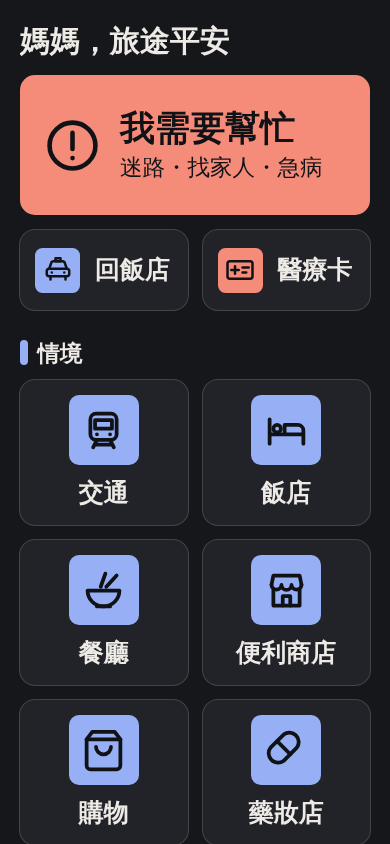
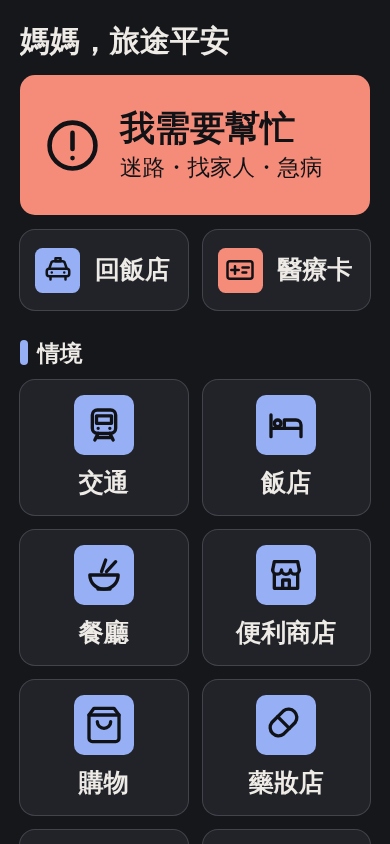
Refine visuals: grouped lists, one solid action per screen (#20)
- Phrase rows of a group share one card with hairline dividers (rowGroup)
- Phrase detail: 給對方點選答案 becomes soft green; 播放 and 慢速 share one style
- 1px rings on answer buttons; row titles semibold; lighter home pictograms
- docs/design.md: rules 8-11

Claude-Session: https://claude.ai/code/session_01FL5DYQMe9ZWzkevjtD88Bj

diff --git a/src/ui/scene.ts b/src/ui/scene.ts
@@ -44,7 +44,8 @@ function phraseActions(phrase: Phrase, line: Ready): HTMLElement {
         "button",
         {
           type: "button",
-          class: `${ACTION} col-span-2 bg-ok text-on-accent`,
+          // Soft, so 給對方看 stays the one solid action; green still means "answers".
+          class: `${ACTION} col-span-2 bg-ok-soft text-ok ring-1 ring-ok/40`,
           onclick: () => askOther(line, repliesFor(phrase.answers!)),
         },
         icon("hand"),
@@ -90,17 +91,24 @@ export function phraseRow(phrase: Phrase, line: Ready): HTMLElement {
     {
       type: "button",
       class:
-        "flex min-h-16 w-full items-center gap-3 rounded-xl bg-card px-4 py-2.5 text-left ring-1 ring-hair transition active:scale-[0.98] active:bg-ai-soft",
+        // Rows sit in a shared card (rowGroup), so they draw no box of their own; the
+        // focus ring is drawn inside, where the card's rounded corners cannot clip it.
+        "flex min-h-16 w-full items-center gap-3 px-4 py-3 text-left transition-colors active:bg-ai-soft focus-visible:[outline-offset:-3px]",
       onclick: () => openPhrase(phrase, line),
     },
     h(
       "span",
       { class: "min-w-0 flex-1" },
-      h("span", { class: "block text-xl font-bold leading-snug" }, line.zh),
+      h("span", { class: "block text-xl font-semibold leading-snug" }, line.zh),
       h("span", { lang: "ja", class: "mt-0.5 block truncate text-base text-muted" }, plain(line.jp)),
     ),
-    icon("next", "h-7 w-7 shrink-0 text-ai"),
+    icon("next", "h-6 w-6 shrink-0 text-ai"),
   );
+}
+
+/** Rows of one group in one card, split by hairlines: a list, not a stack of boxes. */
+export function rowGroup(rows: HTMLElement[]): HTMLElement {
+  return h("div", { class: "divide-y divide-hair overflow-hidden rounded-xl bg-card ring-1 ring-hair" }, rows);
 }
 
 /** What staff say: the Chinese first and largest, the Japanese to check against, then the answers. */
@@ -119,7 +127,7 @@ function heardCard(heard: Heard): HTMLElement {
           "button",
           {
             type: "button",
-            class: "min-h-14 rounded-xl bg-ok-soft px-2 py-2 text-lg font-bold leading-tight text-ok ring-2 ring-ok/40 active:scale-95",
+            class: "min-h-14 rounded-xl bg-ok-soft px-2 py-2 text-lg font-bold leading-tight text-ok ring-1 ring-ok/40 active:scale-95",
             onclick: () => showToOther([{ jp: reply.jp, zh: reply.zh }], "我的回答", true),
           },
           reply.zh,
@@ -252,7 +260,7 @@ function tabs(scene: Scene, heard: boolean): HTMLElement {
 
 /** The phrase rows, under the scene's headings when it has them. */
 function phraseList(scene: Scene, line: (phrase: Phrase) => Ready): HTMLElement[] {
-  const rows = (phrases: Phrase[]) => h("div", { class: "space-y-2" }, phrases.map((p) => phraseRow(p, line(p))));
+  const rows = (phrases: Phrase[]) => rowGroup(phrases.map((p) => phraseRow(p, line(p))));
   if (!scene.groups) return [rows(scene.phrases)];
   return scene.groups.map((group) =>
     h(

diff --git a/src/ui/home.ts b/src/ui/home.ts
@@ -6,7 +6,7 @@ import { heading } from "./layout";
 import { pickPlace } from "./scene";
 
 const TILE =
-  "flex min-h-28 flex-col items-center justify-center gap-2 rounded-xl bg-card px-2 py-3 text-center text-xl font-bold text-ink ring-1 ring-hair transition active:scale-[0.97] active:bg-ai-soft";
+  "flex min-h-24 flex-col items-center justify-center gap-2 rounded-xl bg-card px-2 py-3 text-center text-xl font-bold text-ink ring-1 ring-hair transition active:scale-[0.97] active:bg-ai-soft";
 const SHORTCUT =
   "flex min-h-16 items-center gap-3 rounded-xl bg-card px-3 py-2 text-xl font-bold leading-tight text-ink ring-1 ring-hair transition active:scale-[0.97] active:bg-ai-soft";
 
@@ -122,7 +122,7 @@ export function renderHome(root: HTMLElement): void {
                 // With an odd number of scenes the last tile spans the row, so the grid has no gap.
                 class: i === SCENES.length - 1 && SCENES.length % 2 === 1 ? `${TILE} col-span-2` : TILE,
               },
-              pictogram(scene.icon, scene.id === "emergency" ? "shu" : "ai", "lg"),
+              pictogram(scene.icon, scene.id === "emergency" ? "shu" : "ai"),
               scene.title,
             ),
           ),

diff --git a/src/ui/medical.ts b/src/ui/medical.ts
@@ -7,7 +7,7 @@ import { cardBlock } from "./help";
 import { playButton } from "./japanese";
 import { page, section } from "./layout";
 import { showToOther } from "./overlay";
-import { phraseRow } from "./scene";
+import { phraseRow, rowGroup } from "./scene";
 
 /** Phrases from the emergency scene that belong next to the cards. */
 const MEDICAL_PHRASES = ["emergency-ambulance", "emergency-to-hospital", "emergency-insurance", "emergency-documents"];
@@ -104,6 +104,6 @@ export function renderMedical(root: HTMLElement): void {
     section("哪裡不舒服？點選症狀", symptomPicker()),
     allergy && section("過敏卡（給餐廳看）", cardWithActions(allergy, "過敏卡")),
     section("醫療卡（給醫生、救護人員看）", cardWithActions(medicalCard(profile), "醫療卡")),
-    section("常用句", h("div", { class: "space-y-2" }, phrases.map((p) => phraseRow(p, { jp: p.jp, zh: p.zh })))),
+    section("常用句", rowGroup(phrases.map((p) => phraseRow(p, { jp: p.jp, zh: p.zh })))),
   ]);
 }

diff --git a/src/ui/japanese.ts b/src/ui/japanese.ts
@@ -94,9 +94,8 @@ export function playButton(
     "button",
     {
       type: "button",
-      class: `inline-flex items-center justify-center gap-2 rounded-lg font-bold transition active:scale-95 ${PLAY_SIZES[size]} ${
-        slow ? "bg-card text-ai ring-2 ring-ai/40" : "bg-ai-soft text-ai"
-      } ${extra}`,
+      // Normal and slow look the same: the icon and the label tell them apart.
+      class: `inline-flex items-center justify-center gap-2 rounded-lg bg-ai-soft font-bold text-ai transition active:scale-95 ${PLAY_SIZES[size]} ${extra}`,
       "aria-label": `${slow ? "慢速播放" : "播放"}「${all.map(plain).join("")}」`,
     },
     icon(slow ? "slow" : "speaker", "h-6 w-6"),

diff --git a/src/ui/overlay.ts b/src/ui/overlay.ts
@@ -223,7 +223,7 @@ export function askOther(question: { jp: Jp; zh: string }, replies: Reply[]): vo
             type: "button",
             lang: "ja",
             class:
-              "min-h-16 rounded-xl bg-card px-3 py-3 text-2xl font-bold text-ink ring-2 ring-ai/50 transition active:scale-95 active:bg-ai-soft",
+              "min-h-16 rounded-xl bg-card px-3 py-3 text-2xl font-bold text-ink ring-1 ring-ai/40 transition active:scale-95 active:bg-ai-soft",
             onclick: () => answered(reply),
           },
           plain(reply.jp),

diff --git a/docs/design.md b/docs/design.md
@@ -28,6 +28,12 @@
    - 例：「請把畫面拿給對方看」「選一種方式」。
    - 方向直接用箭頭字元（→ ← ↑）。
 7. **勾選要像紙本表格。** 症狀、飲食習慣都用會填滿的方框加勾，跟醫院掛號單一樣。
+8. **同一組的句子放在同一張卡片裡**（`rowGroup()`），用細線分開，像菜單或設定頁的清單，不要每一句各自一個框。
+9. **一個畫面只有一個實心按鈕。**
+   - 最主要的動作用實心（例如「給對方看」），其他動作用淡色底（`bg-ai-soft`、`bg-ok-soft`）。
+   - 「播放」和「慢速」長得一樣，只靠圖示和文字區分。
+10. **外框一律 1px。** 只有「已選取」的狀態用 2px，讓人一眼看出選了哪個。
+11. **字重有層次。** 清單標題用半粗（`font-semibold`），日文和說明用一般字重、淡色。
 
 ## 為什麼
 
